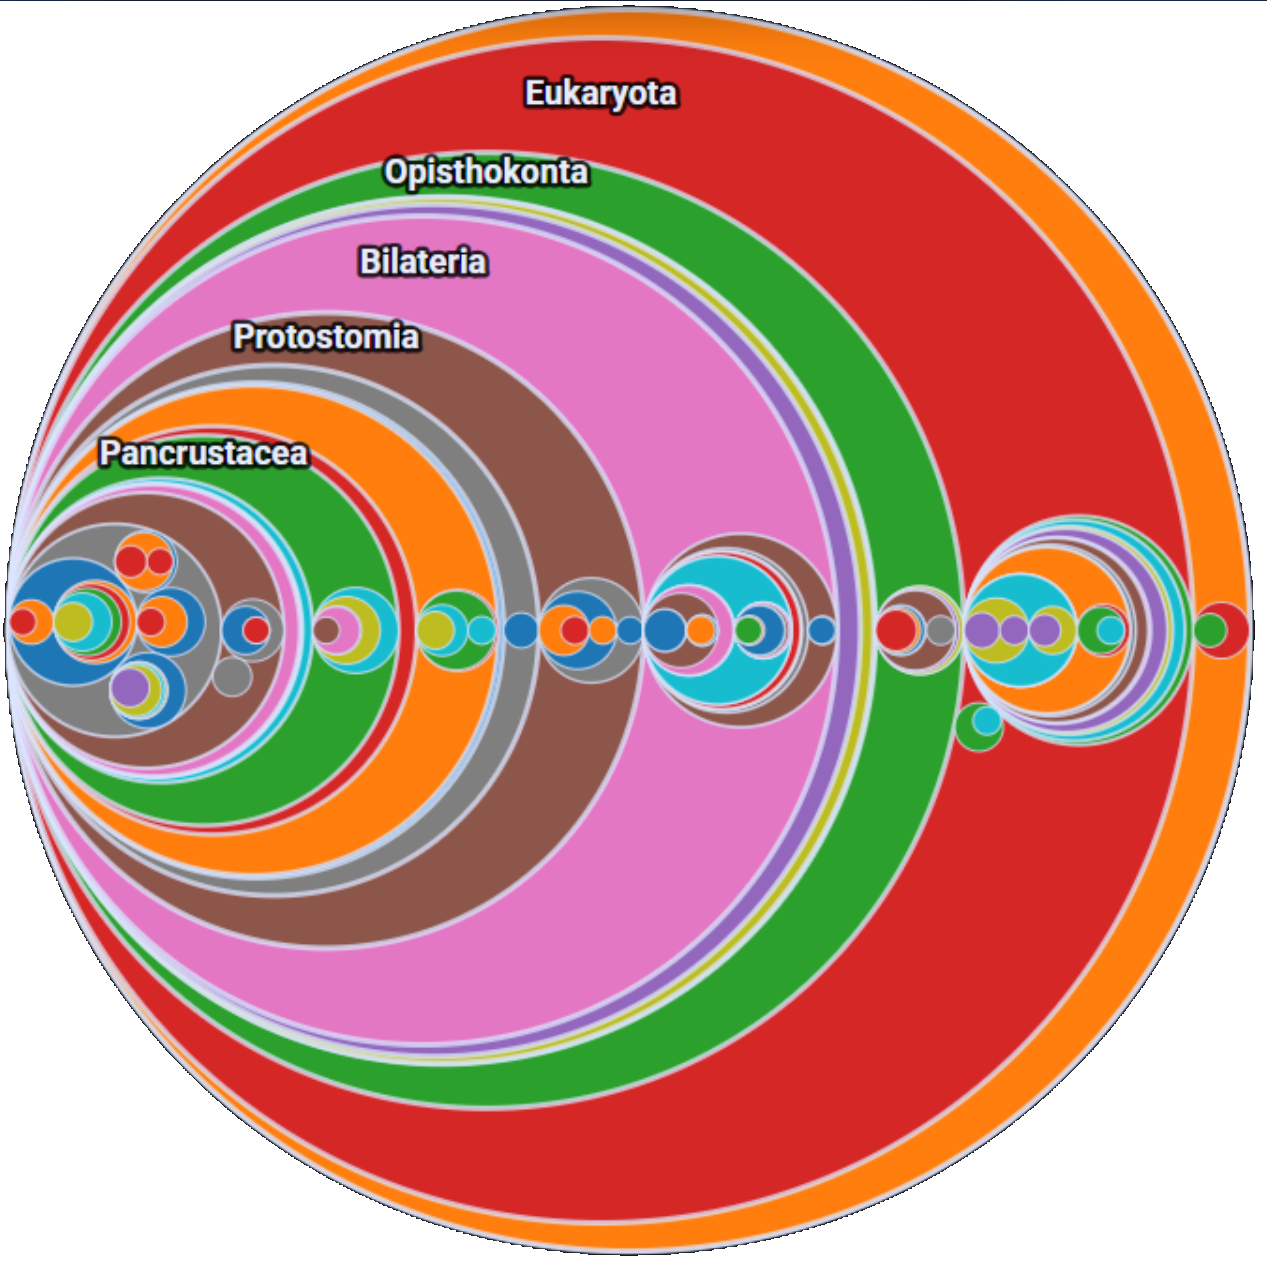
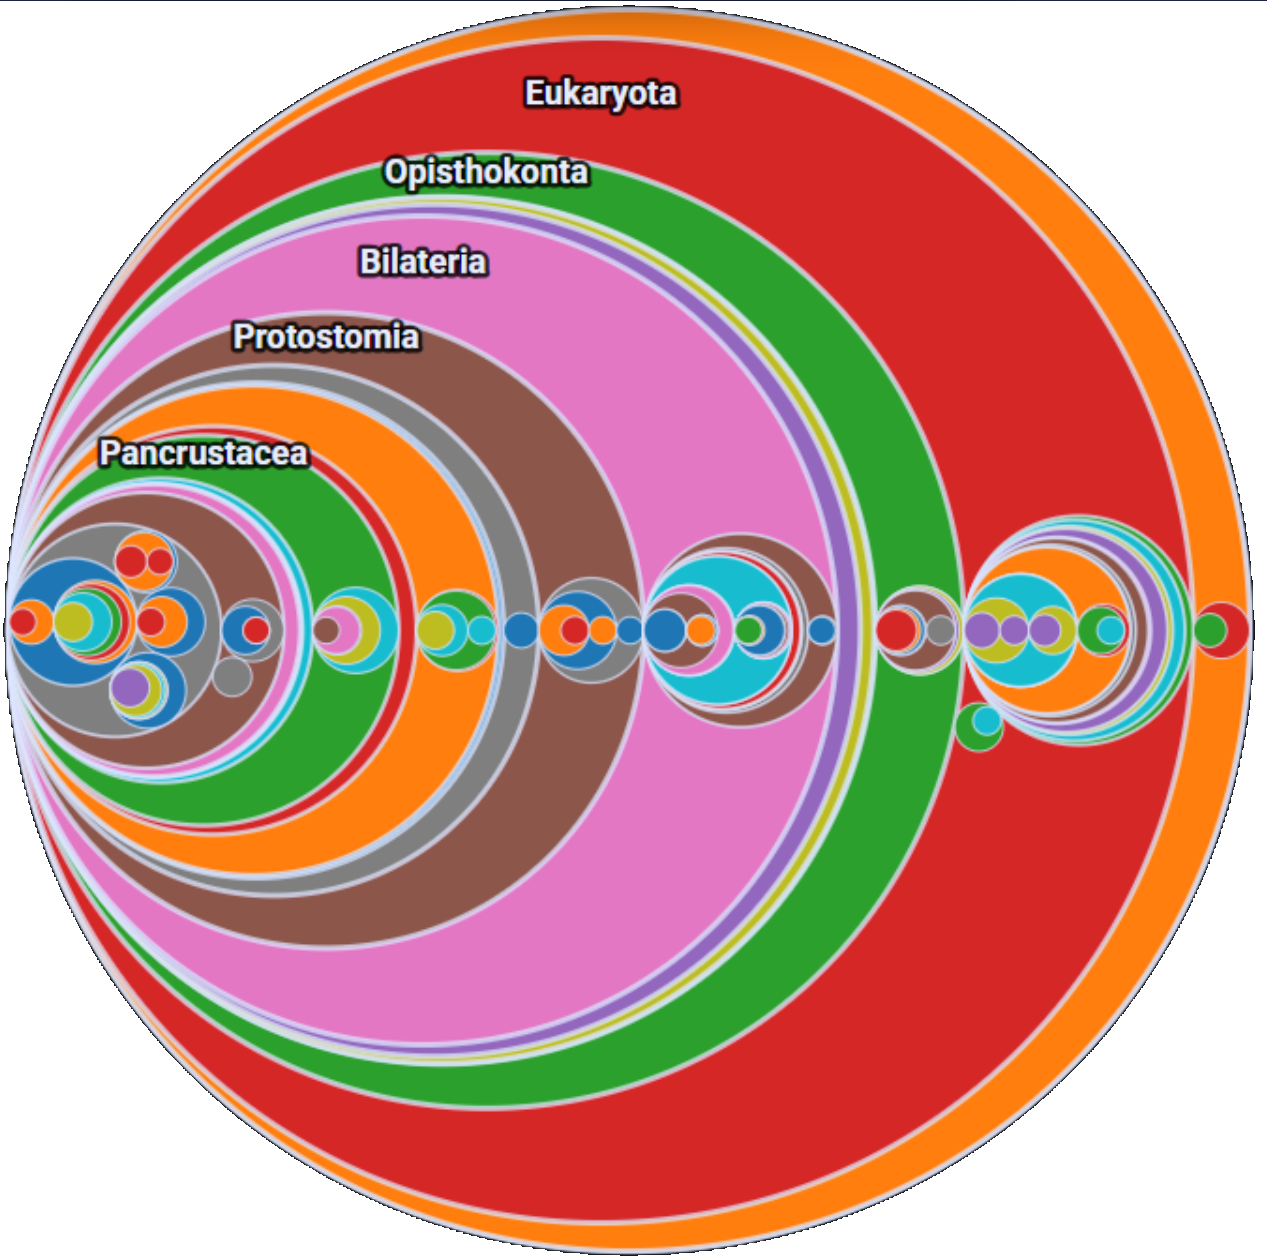
Sync landing background with selected color preset
- Pass current color preset from app state into landing and settings components
- Update landing hero image based on preset with fallback mapping
- Add blue-gradient landing background asset and remove old variant

diff --git a/src/App.tsx b/src/App.tsx
@@ -32,6 +32,7 @@ import {
   translate,
   type AppLanguage,
 } from './modules/i18n'
+import { perf } from './modules/settings'
 
 export interface AppState {
   isLanding: boolean
@@ -51,6 +52,7 @@ const ONBOARDING_STORAGE_KEY = 'infinitespecies_onboardingSeen'
 
 export default function App() {
   const [language, setLanguage] = useState<AppLanguage>(() => getCurrentLanguage())
+  const [colorPreset, setColorPreset] = useState(() => perf.colors.currentPreset)
   const [languageModalOpen, setLanguageModalOpen] = useState(false)
   const [onboardingOpen, setOnboardingOpen] = useState(() => localStorage.getItem(ONBOARDING_STORAGE_KEY) !== 'true')
   const [appState, setAppState] = useState<AppState>({
@@ -408,6 +410,7 @@ export default function App() {
         {appState.isLanding && (
           <LandingPage
             language={language}
+            colorPreset={colorPreset}
             onStart={handleStartExploration}
             onLanguage={() => setLanguageModalOpen(true)}
             onHelp={() => setHelpOpen(true)}
@@ -468,6 +471,8 @@ export default function App() {
       <SettingsModal
         isOpen={settingsOpen}
         language={language}
+        colorPreset={colorPreset}
+        onColorPresetChange={setColorPreset}
         onLanguageChange={handleLanguageSelect}
         onClose={() => setSettingsOpen(false)}
       />

diff --git a/src/components/SettingsModal.tsx b/src/components/SettingsModal.tsx
@@ -11,11 +11,13 @@ import {
 interface SettingsModalProps {
   isOpen: boolean
   language: AppLanguage
+  colorPreset: string
+  onColorPresetChange: (preset: string) => void
   onLanguageChange: (language: AppLanguage) => void
   onClose: () => void
 }
 
-export default function SettingsModal({ isOpen, language, onLanguageChange, onClose }: SettingsModalProps) {
+export default function SettingsModal({ isOpen, language, colorPreset, onColorPresetChange, onLanguageChange, onClose }: SettingsModalProps) {
   const fontSettings = perf.fonts && perf.fonts.presets && perf.fonts.currentPreset ? perf.fonts : null
 
   const getSavedFontPreset = () => {
@@ -45,6 +47,7 @@ export default function SettingsModal({ isOpen, language, onLanguageChange, onCl
     setCurrentColorPreset(preset)
     perf.colors.currentPreset = preset
     localStorage.setItem('infinitespecies_colorPreset', preset)
+    onColorPresetChange(preset)
   }
 
   const handleFontChange = (preset: string) => {
@@ -70,6 +73,10 @@ export default function SettingsModal({ isOpen, language, onLanguageChange, onCl
       perf.rendering.labelFontFamily = `'${fontConfig.name}', ui-sans-serif, system-ui, sans-serif`
     }
   }
+
+  useEffect(() => {
+    setCurrentColorPreset(colorPreset)
+  }, [colorPreset])
 
   useEffect(() => {
     const handleKeyDown = (e: KeyboardEvent) => {

diff --git a/src/components/LandingPage.tsx b/src/components/LandingPage.tsx
@@ -3,6 +3,7 @@ import { translate, type AppLanguage } from '../modules/i18n'
 
 interface LandingPageProps {
   language: AppLanguage
+  colorPreset: string
   onStart: () => void
   onLanguage: () => void
   onHelp: () => void
@@ -10,7 +11,14 @@ interface LandingPageProps {
   onSettings: () => void
 }
 
-export default function LandingPage({ language, onStart, onLanguage, onHelp, onAbout, onSettings }: LandingPageProps) {
+const landingTreeImages: Record<string, string> = {
+  tableau10: '/landing-tree-bg.png',
+  blueGradient: '/landing-tree-bg1.png',
+}
+
+export default function LandingPage({ language, colorPreset, onStart, onLanguage, onHelp, onAbout, onSettings }: LandingPageProps) {
+  const landingTreeImage = landingTreeImages[colorPreset] || landingTreeImages.tableau10
+
   return (
     <motion.div
       className="landing-page"
@@ -19,7 +27,7 @@ export default function LandingPage({ language, onStart, onLanguage, onHelp, onA
       transition={{ duration: 0.4 }}
     >
       <div className="landing-art" aria-hidden="true">
-        <img className="landing-art-image" src="/landing-tree-bg.png" alt="" />
+        <img className="landing-art-image" src={landingTreeImage} alt="" />
       </div>
 
       <motion.div

diff --git a/dist/index.html b/dist/index.html
@@ -26,7 +26,7 @@
     
     <link rel="preconnect" href="https://fonts.googleapis.com">
     <link rel="preconnect" href="https://fonts.gstatic.com" crossorigin>
-    <script type="module" crossorigin src="/assets/index-DbpMOKY1.js"></script>
+    <script type="module" crossorigin src="/assets/index-BmCx06nl.js"></script>
     <link rel="stylesheet" crossorigin href="/assets/index-Dw9pTdrv.css">
   </head>
   <body>
